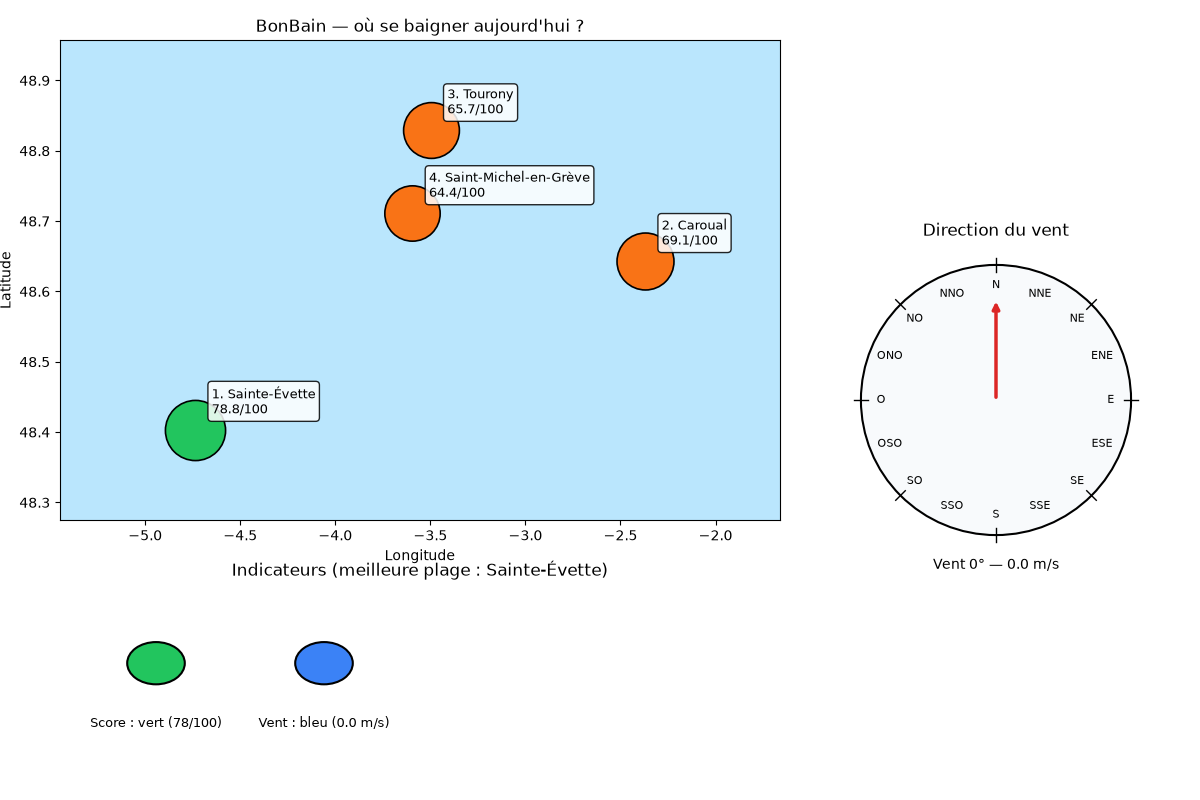
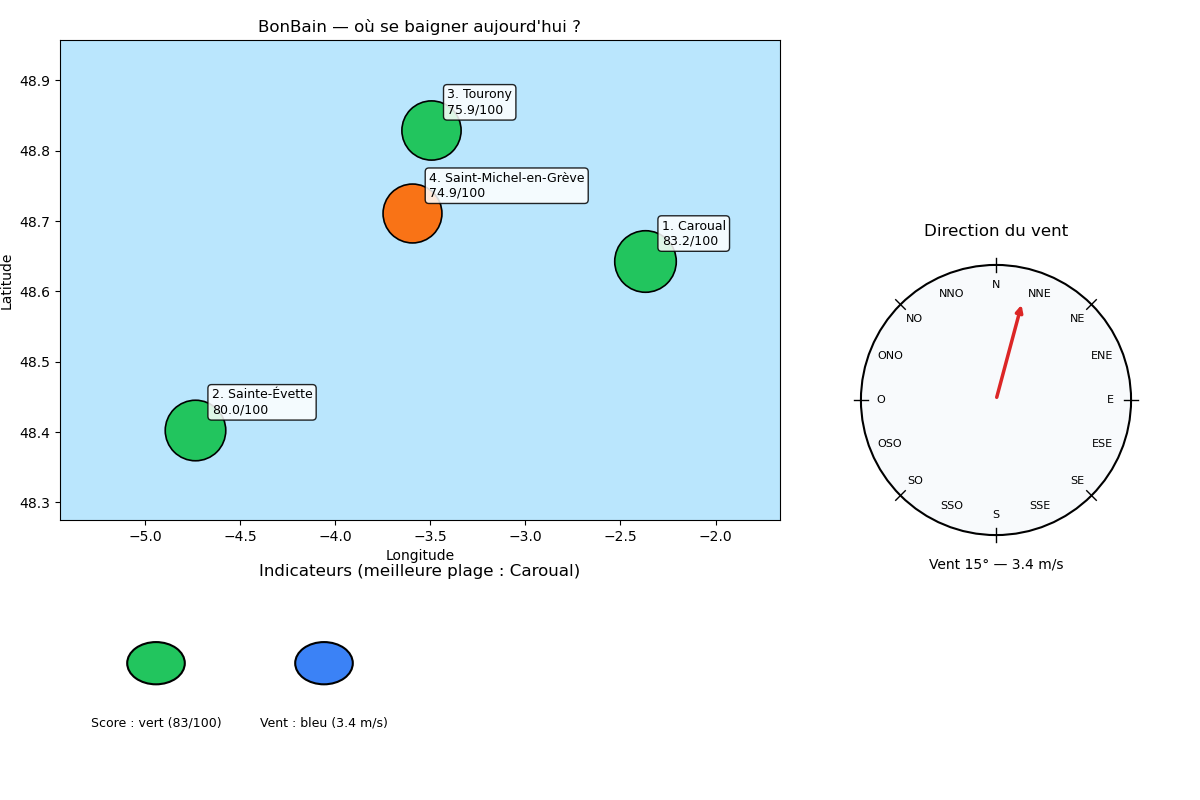
Ma base de plages

diff --git a/bonbain/base_plages.py b/bonbain/base_plages.py
@@ -12,7 +12,7 @@ Chaque plage décrit ses conditions optimales de baignade :
 MER_MANCHE = "Manche"
 
 
-def plage_tourony():
+def tourony():
     return {
         "nom": "Tourony",
         "mer": MER_MANCHE,
@@ -73,7 +73,7 @@ def _plage_caroual():
 
 def base_plages():
     return [
-        plage_tourony(),
+        tourony(),
         _plage_saint_michel_en_grève(),
         _plage_st_evette(),
         _plage_caroual(),
